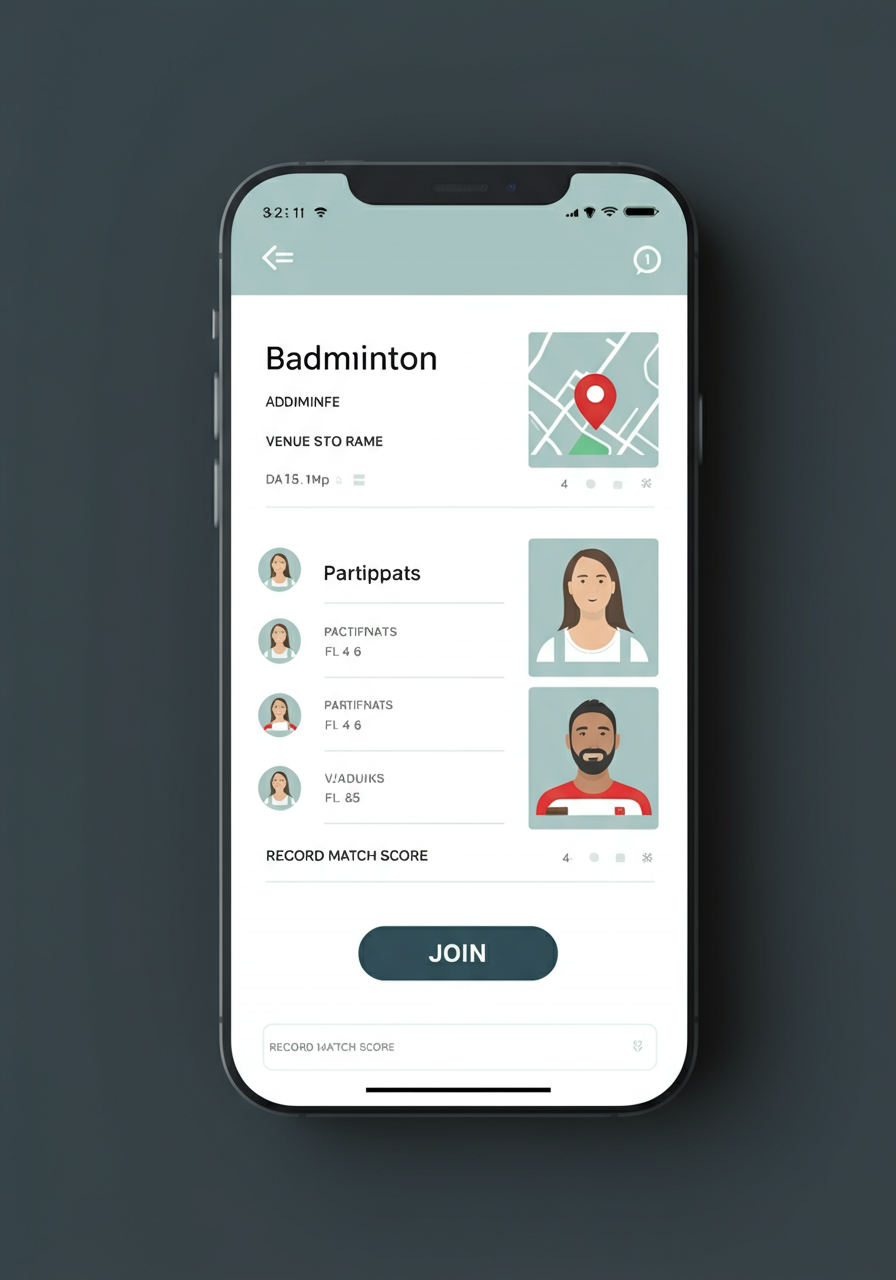
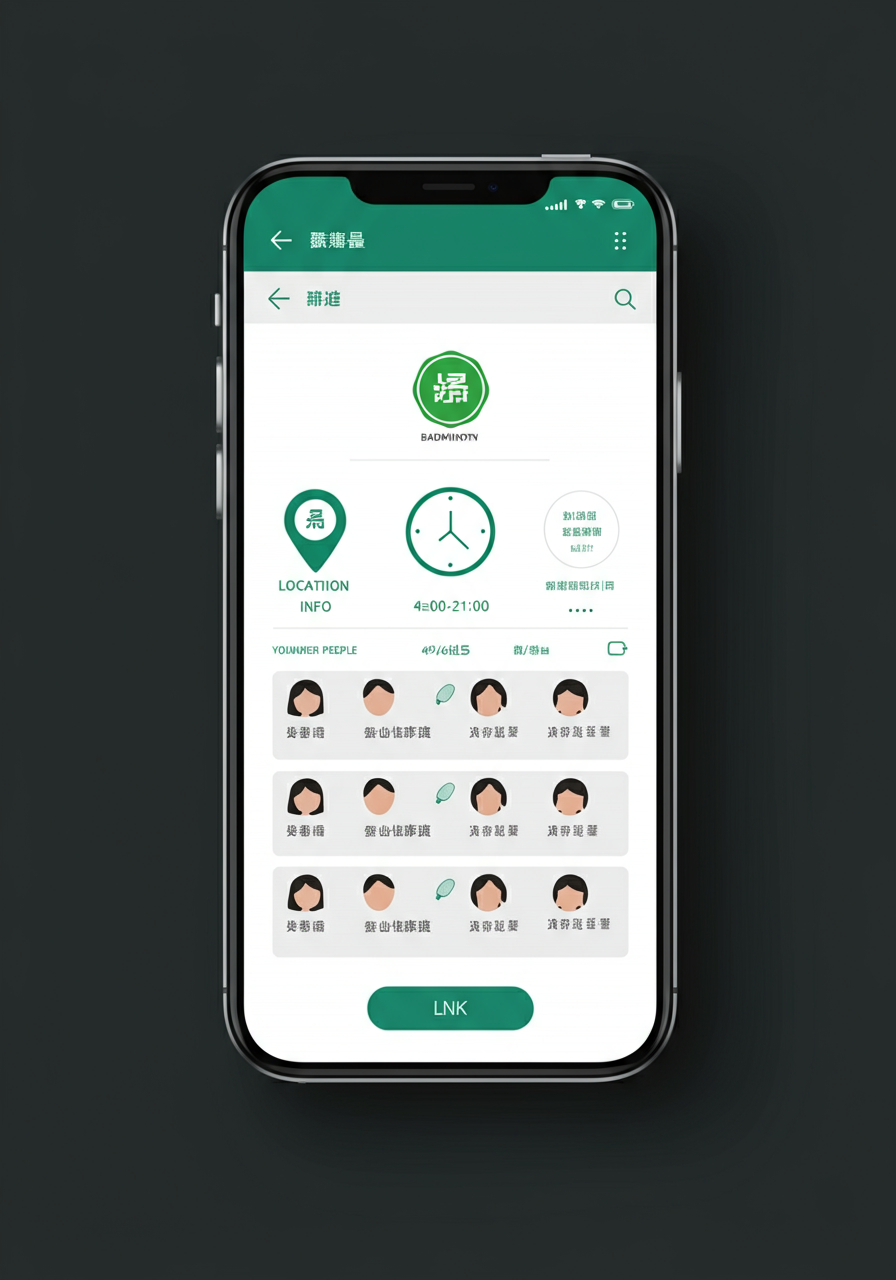
添加 PRD 文档及 15 个页面的中文线框原型图
包含完整的一期产品需求文档（7 个功能模块、4 个跨模块业务流）和所有页面的中文线框原型图。

diff --git a/docs/prd.md b/docs/prd.md
@@ -462,14 +462,50 @@
 > 以下线框图基于上述 UX/交互说明生成，用于辅助理解页面布局和操作流程。
 > 文字描述（5.1-5.3）为需求权威来源，若原型与文字不一致，以文字为准。
 
+#### 注册/登录页
+![注册登录页线框图](prototypes/prototype-login.png)
+
 #### 首页/约球列表
 ![首页线框图](prototypes/prototype-home.png)
+
+#### 发起约球页
+![发起约球页线框图](prototypes/prototype-create-activity.png)
+
+#### 活动详情页
+![活动详情页线框图](prototypes/prototype-activity-detail.png)
+
+#### 找教练列表
+![找教练列表线框图](prototypes/prototype-coach-list.png)
 
 #### 教练主页
 ![教练主页线框图](prototypes/prototype-coach-profile.png)
 
-#### 活动详情页
-![活动详情线框图](prototypes/prototype-activity-detail.png)
+#### 团课详情页
+![团课详情页线框图](prototypes/prototype-group-class-detail.png)
+
+#### 个人主页/我的
+![个人主页线框图](prototypes/prototype-my-profile.png)
+
+#### 通知列表页
+![通知列表页线框图](prototypes/prototype-notifications.png)
+
+#### 战绩录入页
+![战绩录入页线框图](prototypes/prototype-match-record.png)
+
+#### 个人资料编辑页
+![个人资料编辑线框图](prototypes/prototype-edit-profile.png)
+
+#### 教练资料编辑页
+![教练资料编辑线框图](prototypes/prototype-coach-edit.png)
+
+#### 私教时间设置页
+![私教时间设置线框图](prototypes/prototype-private-lesson-schedule.png)
+
+#### 战绩历史列表页
+![战绩历史列表线框图](prototypes/prototype-match-history.png)
+
+#### 设置页
+![设置页线框图](prototypes/prototype-settings.png)
 
 ---
 
